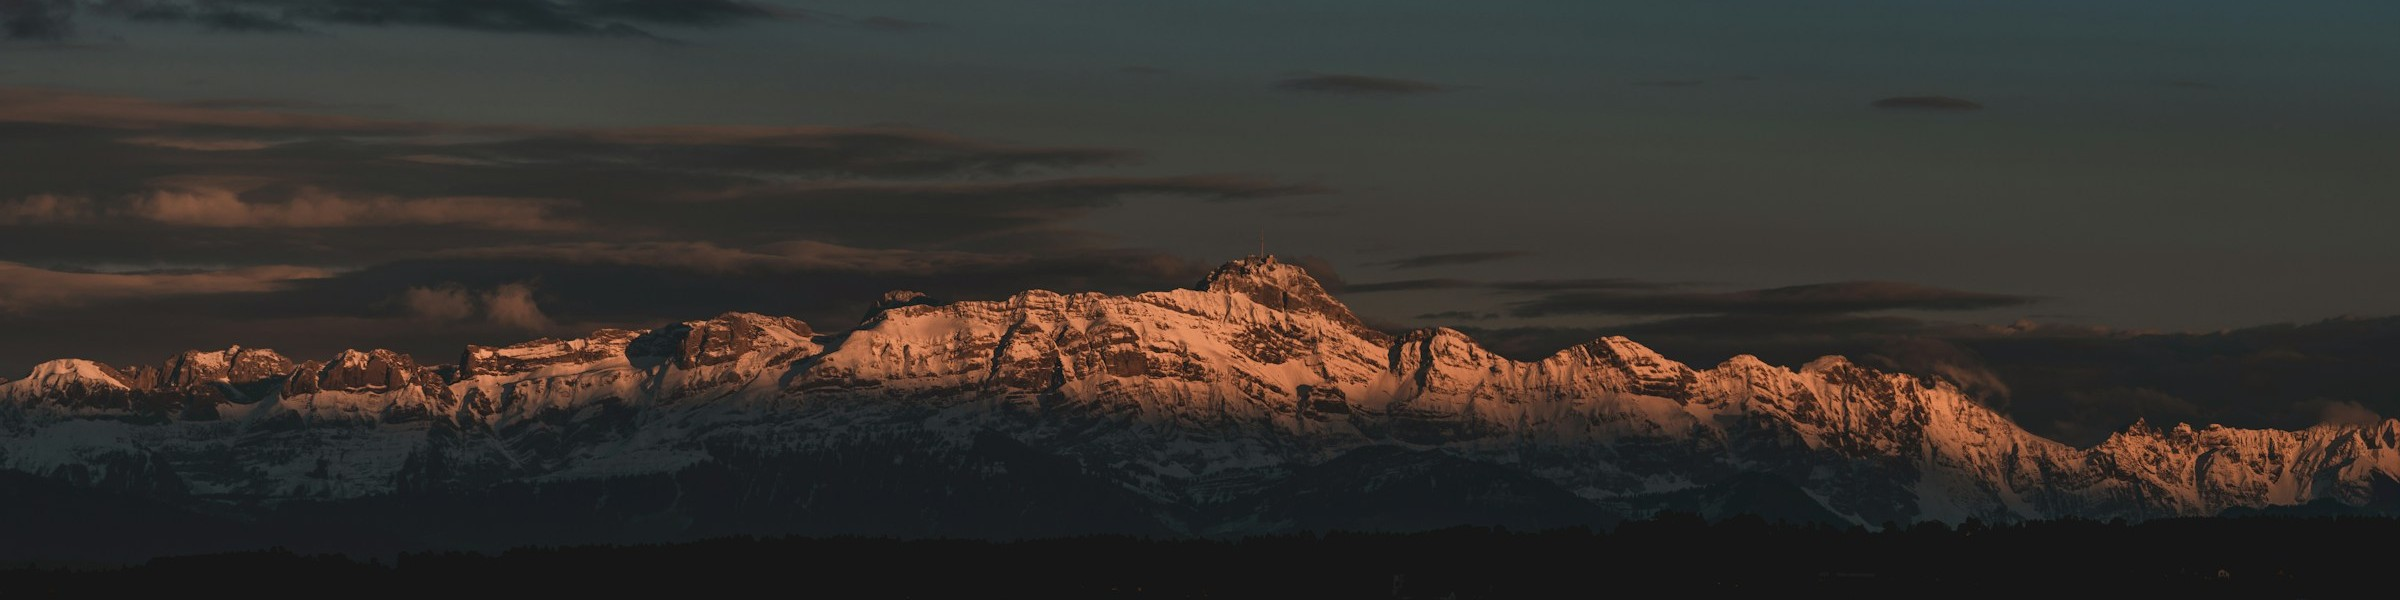
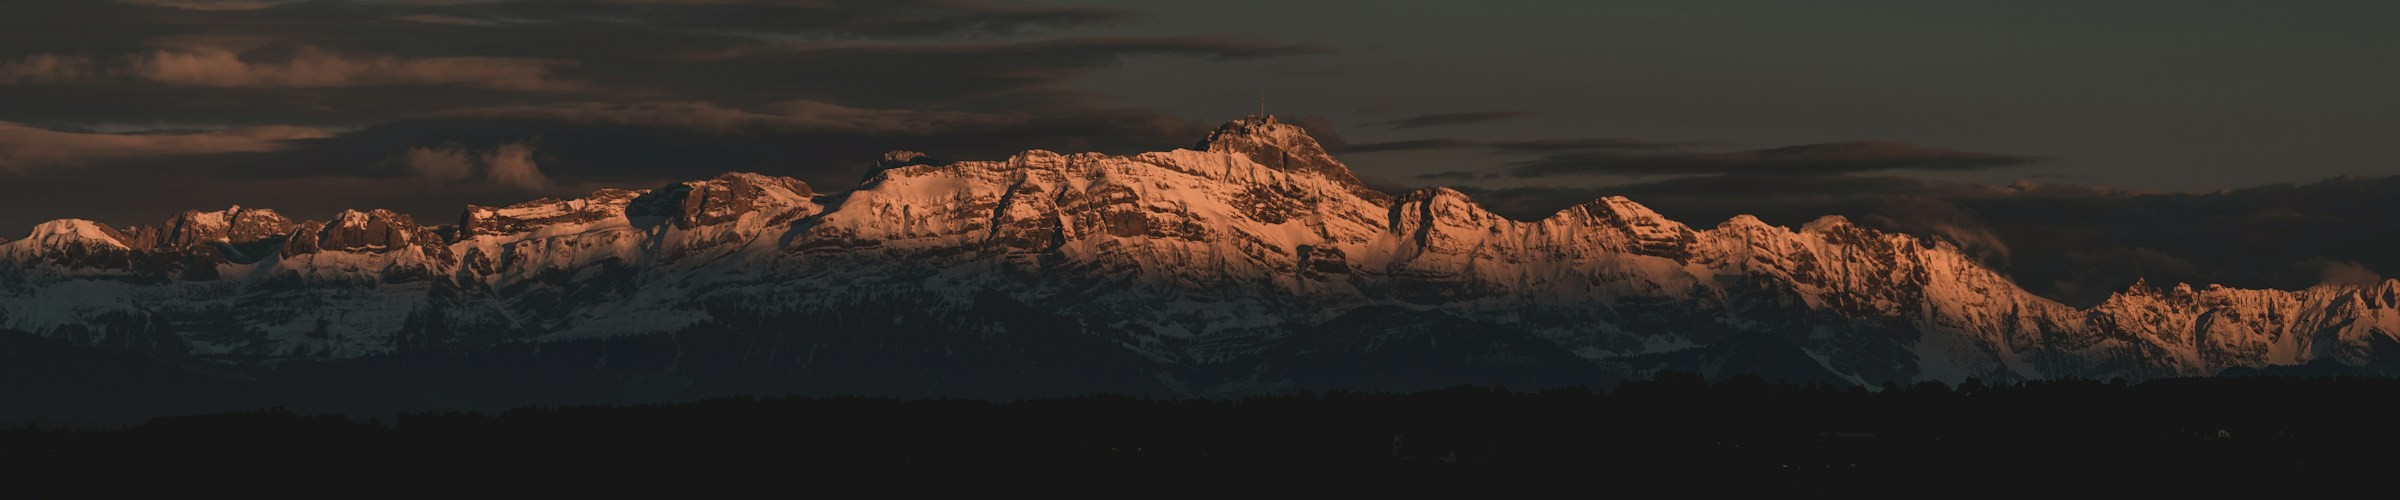
Homepage: the massif meets the wordmark, plus a guidelines pass
Manuel: "the picture should be direct with the triarc logo not so far
underneath." The photo was anchored to the floor of the hero, which left a
~220px void between the wordmark and the horizon. It is now anchored to the
lockup instead — re-cropped with almost no sky, and positioned so TRIARC
crowns the range, with the page returning to paper below it. The EST rule,
tagline and status line now sit on snow, so each carries a paper halo.

Web Interface Guidelines pass over the homepage and shell:
- skip link to #main (every page's <main> now carries the id)
- one visible :focus-visible ring site-wide; the UA default was invisible
  against paper on every custom-styled control
- color-scheme + theme-color per theme, the latter re-written on manual toggle
  since media-scoped metas cannot follow an override
- accent rule animates transform, not width (was relayouting per frame)
- the mark's pivot transform moved onto a <g> wrapper
- scroll-margin-top on the instrument case; text-wrap on tagline and lede
- touch-action: manipulation, intentional tap-highlight, safe-area insets on
  the full-bleed hero
- brand names marked translate="no"; curly apostrophes in the EN copy
- the current-language toggle is text, not an href="#" link to nowhere

diff --git a/src/styles/global.css b/src/styles/global.css
@@ -4,6 +4,9 @@
    ============================================================ */
 
 :root {
+  /* tells the UA to render native chrome (scrollbars, form controls) to match */
+  color-scheme: light;
+
   /* light (paper) — default */
   --paper: #f7f4ed;
   --paper-deep: #ede7d8;
@@ -28,6 +31,7 @@
 }
 
 :root[data-theme="dark"] {
+  color-scheme: dark;
   --paper: #14120d;
   --paper-deep: #1d1a13;
   --ink: #f2ede1;
@@ -45,6 +49,31 @@
 * { box-sizing: border-box; }
 a { color: inherit; text-decoration: none; }
 
+/* one visible focus ring for the whole site — the UA default is invisible
+   against paper, and every interactive element here is custom-styled */
+:focus-visible {
+  outline: 2px solid var(--gold);
+  outline-offset: 3px;
+  border-radius: 1px;
+}
+
+/* skip link — visible only once focused */
+.skip-link {
+  position: absolute;
+  left: 16px;
+  top: -100px;
+  z-index: 100;
+  padding: 12px 20px;
+  background: var(--ink);
+  color: var(--paper);
+  font-family: var(--mono);
+  font-size: 11px;
+  letter-spacing: 0.2em;
+  text-transform: uppercase;
+  transition: top 160ms var(--ease);
+}
+.skip-link:focus { top: 16px; }
+
 html, body {
   margin: 0;
   padding: 0;
@@ -52,6 +81,9 @@ html, body {
   color: var(--ink);
   font-family: var(--sans);
   font-weight: 300;
+  /* no 300ms tap delay, and no default blue flash over the paper */
+  touch-action: manipulation;
+  -webkit-tap-highlight-color: rgba(184, 148, 58, 0.18);
   -webkit-font-smoothing: antialiased;
   -moz-osx-font-smoothing: grayscale;
   text-rendering: optimizeLegibility;
@@ -104,7 +136,7 @@ body {
 .lang-toggle { display: inline-flex; align-items: center; gap: 8px; }
 .lang-toggle a { color: var(--ink-soft); transition: color 160ms ease; }
 .lang-toggle a:hover { color: var(--ink); }
-.lang-toggle a[aria-current="true"] { color: var(--gold); border-bottom: 1px solid var(--gold); }
+.lang-toggle [aria-current="true"] { color: var(--gold); border-bottom: 1px solid var(--gold); }
 .lang-toggle .sep { opacity: 0.4; }
 .theme-toggle .moon { display: inline; }
 .theme-toggle .sun { display: none; }
